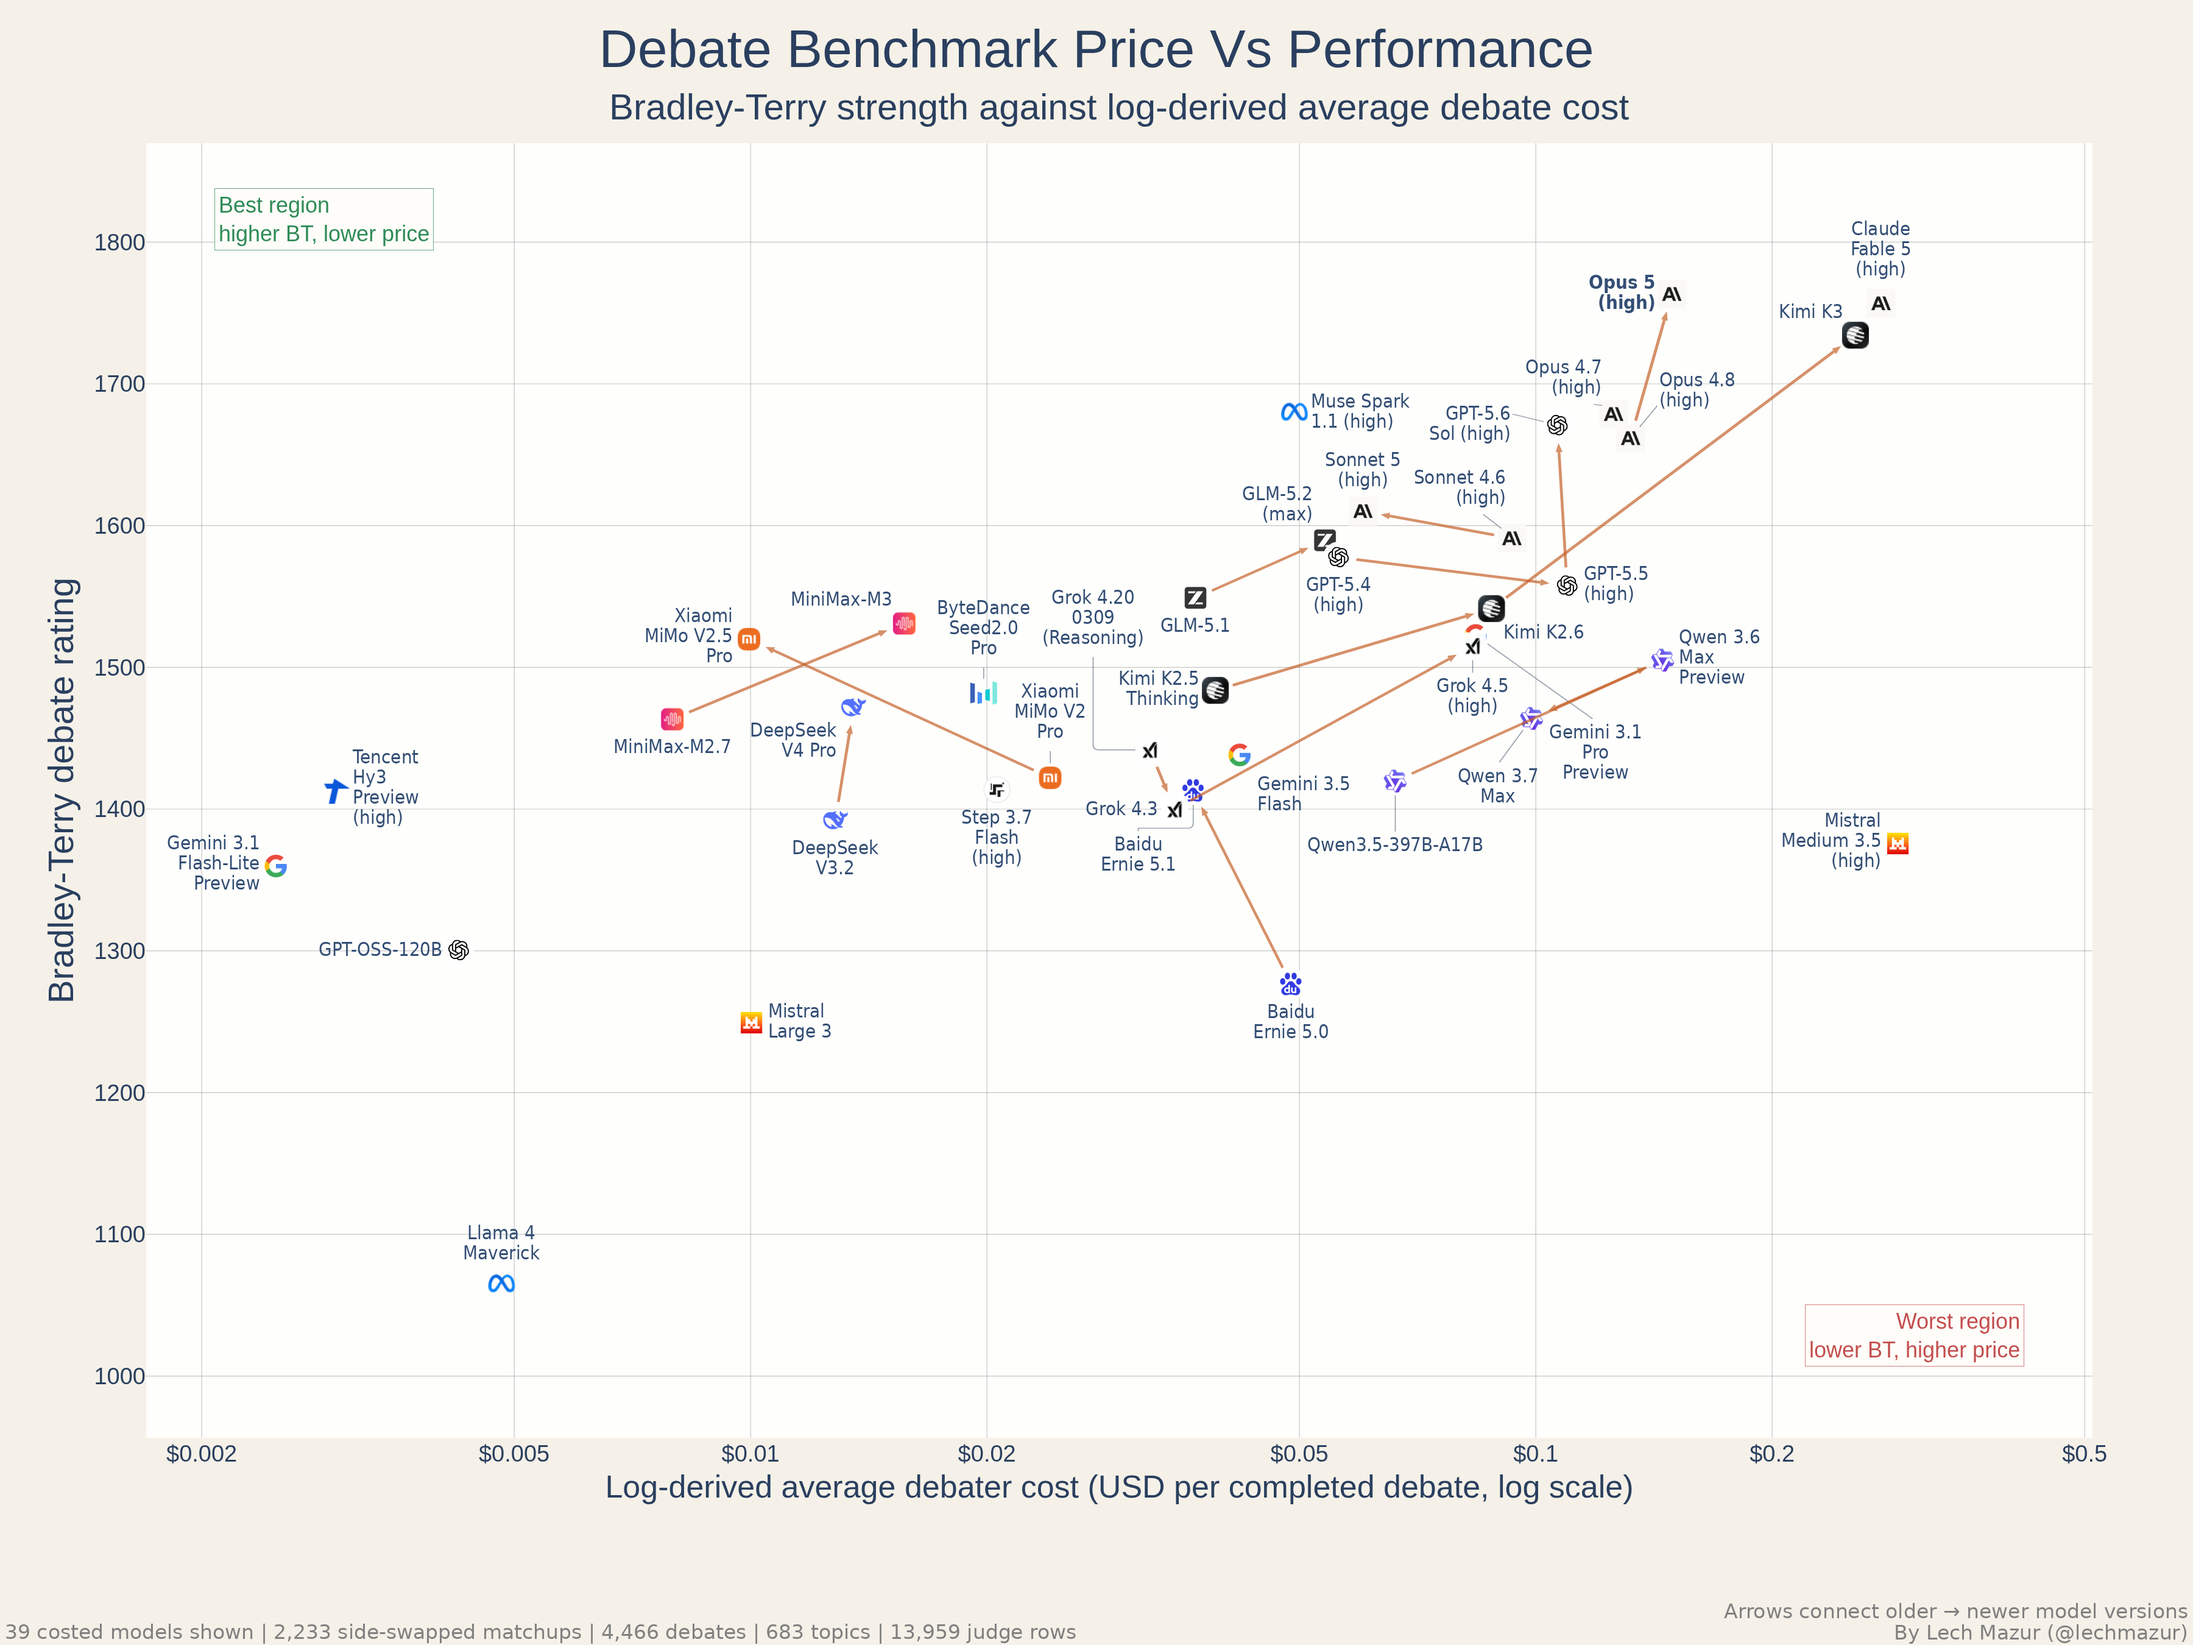
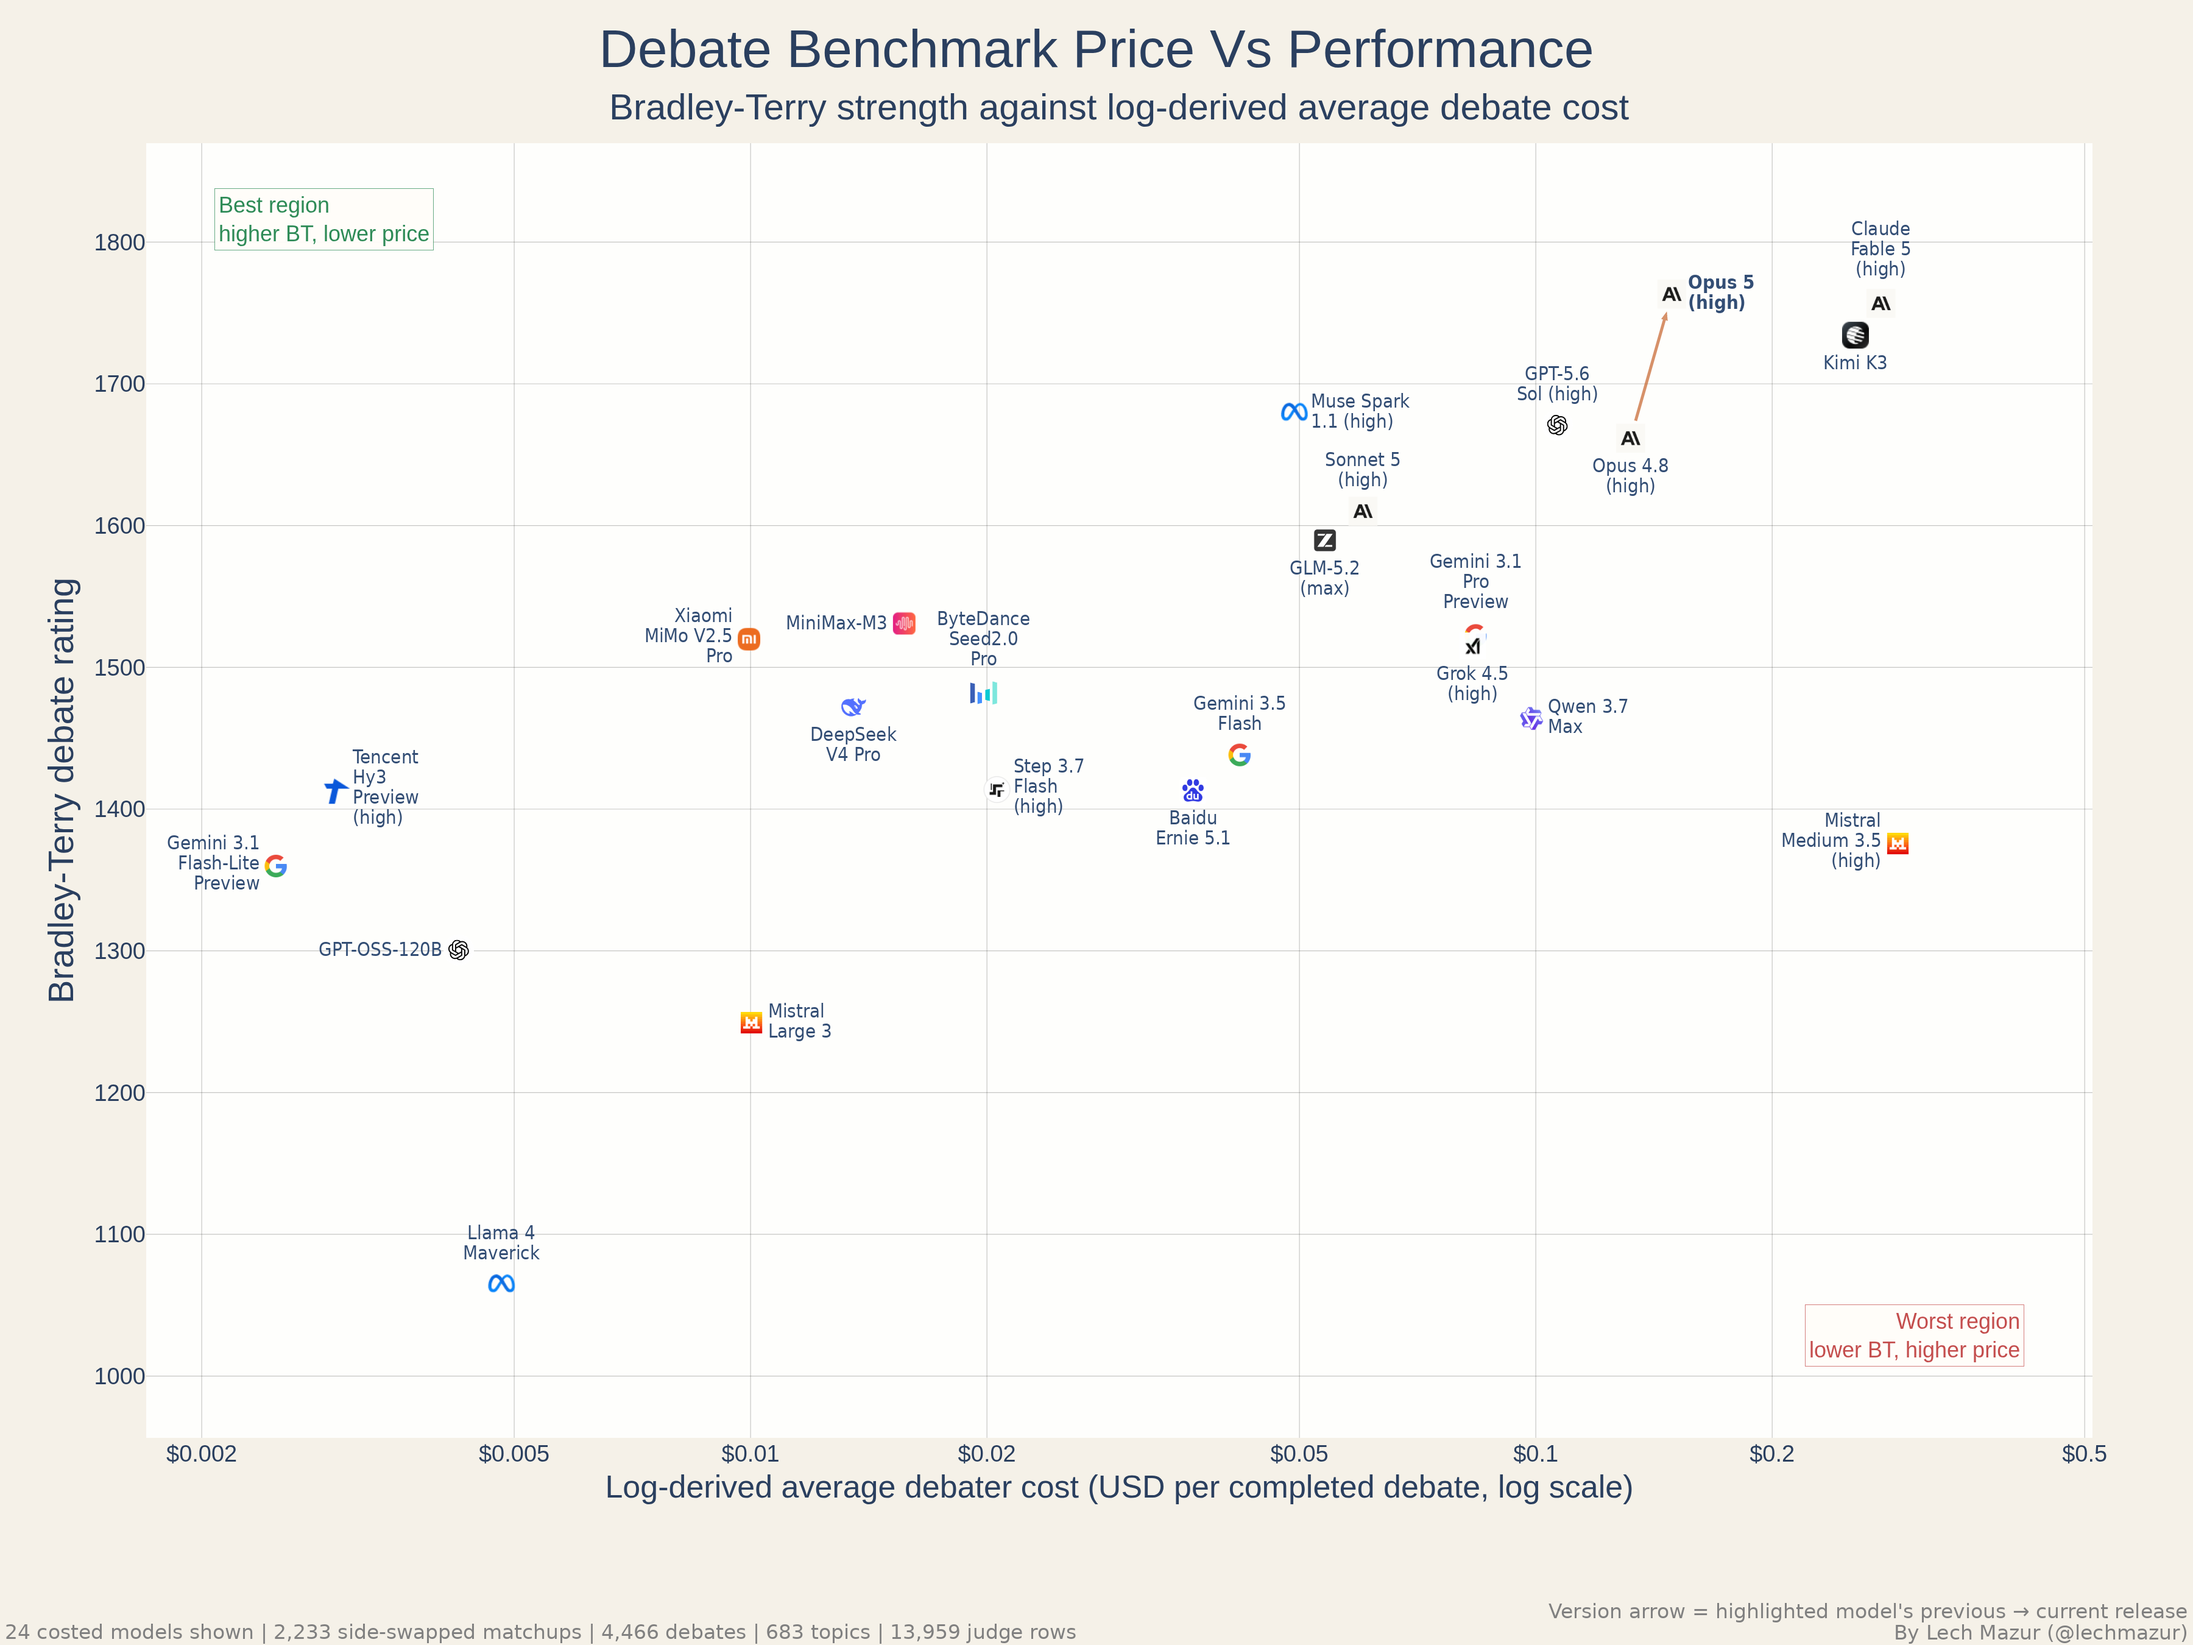
Focus public scatters on current models
Keep Claude Opus 4.8 as the sole historical scatter point for the highlighted Opus 5 comparison, and publish the single Opus version arrow plus matching README policy.

diff --git a/README.md b/README.md
@@ -22,7 +22,8 @@ Each evaluated matchup runs twice on the **same topic with sides swapped**. A th
 
 ## Current Snapshot
 
-- **42 rated models shown in the public charts**
+- **42 rated models retained in public leaderboards and matrix charts**
+- **24 models shown in current-focused scatter plots: 23 current models plus Claude Opus 4.8**
 - **4,770 debate artifacts tracked in the current status page**
 - **2,284 side-swapped matchups tracked before incomplete pairs are removed**
 - **2,233 side-swapped matchups used for the current ratings**
@@ -33,7 +34,7 @@ One side-swapped matchup means two debates on the same motion with PRO and CON r
 
 The transcript links below point to completed debates that are ready to read directly.
 
-Older models remain in the data for comparison, but the README and charts emphasize the current model set by default. The price-vs-performance chart makes one deliberate exception: it retains cost-backed predecessor chains that lead to current models so arrows can show how price and debate strength changed between versions.
+Older models remain in the data for comparison, but public scatter plots show the current model set by default. They make one narrow exception: the immediate predecessor of a highlighted model is retained for direct comparison. Claude Opus 5 is the sole highlight in this release, so Claude Opus 4.8 is the only historical model shown in the scatters and the Opus 4.8 → Opus 5 transition is the only version arrow.
 
 This refresh adds Claude Opus 5 (high) through 199 completed debate directions, forming 99 complete side-swapped matchups against 19 opponents. One attempted direction against ByteDance Seed2.0 Pro was refused, so it remains recorded as a terminal content block and was neither resumed nor imputed. The new judge pass produced all 597 planned decisions for the 199 completed debates. Kimi K3 also gains ten complete matchups against Opus 5, bringing its published coverage to 104 groups. An integrity audit continues to quarantine 14 older side-swapped groups whose stored transcripts contained literal upstream proxy-error text; their source artifacts remain preserved, but they do not feed ratings. The 150-debate judge bridge remains agreement-only and does not enter ratings.
 
@@ -172,7 +173,7 @@ The price chart reads the same Bradley-Terry strength signal against estimated d
 
 ![Price versus performance with Claude Opus 5 highlighted](images/debate_price_vs_performance__judge_judge_blend_20260724a__debate_placement_active_20260320f_highlighted.png)
 
-Higher and further left is better on this view. Arrows run from older to newer model versions. The chart omits vertical rating-uncertainty bands for readability and plots current rated models plus their cost-backed predecessor chains. This release refreshed costs across 44,864 stored debater turns: all 45 stored rated models have usable USD estimates, and 39 appear in the public cost chart after report-time suppression and lineage filtering. The 15 visible arrows include Claude Opus 4.8 → Opus 5, Kimi K2.5 → Kimi K2.6 → Kimi K3, Baidu Ernie 5.0 → 5.1, and Qwen 3.5 → 3.6 → 3.7. The very close Opus 4.7 → 4.8 pair remains unconnected because a logo-safe arrow cannot fit. Opus 5's exact log-derived average is about $0.149 per completed debate, compared with about $0.132 for Opus 4.8. Kimi K3 remains the most expensive of the top three at about $0.255 per completed debate.
+Higher and further left is better on this view. The chart omits vertical rating-uncertainty bands for readability and shows 23 current rated models plus Claude Opus 4.8, the immediate predecessor of the sole highlighted model. This release refreshed costs across 44,864 stored debater turns: all 45 stored rated models have usable USD estimates, while 24 appear in the current-focused public cost chart. The only version arrow is Claude Opus 4.8 → Opus 5; older Kimi, Qwen, Ernie, GPT, Grok, GLM, MiniMax, and other predecessor points remain in stored results but are intentionally omitted from public scatters. Opus 5's exact log-derived average is about $0.149 per completed debate, compared with about $0.132 for Opus 4.8. Kimi K3 remains the most expensive of the top three at about $0.255 per completed debate.
 
 ---
 
@@ -238,8 +239,8 @@ These are sanity-check views, not a second leaderboard. They are there to make e
 
 The benchmark also tracks a judge-side entertainment/readability diagnostic as a secondary signal. It does not affect ratings, but it is useful for checking whether the benchmark produces debates that are merely formal or actually engaging to read.
 
-- mean entertainment across completed matchups shown in the charts: 7.37 / 10
-- most entertaining current models by that signal include Claude Opus 5 (high), Kimi K3, Muse Spark 1.1 (high), Claude Fable 5 (high), Claude Opus 4.8 (high), Claude Opus 4.7 (high), Claude Sonnet 5 (high), GLM-5.2 (max), Kimi K2.6, and Claude Sonnet 4.6 (high)
+- matchup-coverage-weighted mean entertainment across models shown in the scatter: 7.38 / 10
+- most entertaining models shown by that signal include Claude Opus 5 (high), Kimi K3, Muse Spark 1.1 (high), Claude Fable 5 (high), Claude Opus 4.8 (high), Claude Sonnet 5 (high), GLM-5.2 (max), GPT-5.6 Sol (high), MiniMax-M3, and Xiaomi MiMo V2.5 Pro
 
 High-entertainment matchup examples from the current snapshot:
 
@@ -249,11 +250,11 @@ High-entertainment matchup examples from the current snapshot:
 - Kimi K3 vs Muse Spark 1.1 (high) on long-term block grants for fundamental science
 
 This signal is diagnostic rather than decisive, but it helps show that the benchmark is producing debates judges generally find readable and engaging.
-For the model table and example matchups behind this view, see the [current entertainment report](reports/debate_entertainment_report__judge_judge_blend_20260724a__debate_placement_active_20260320f.md). That report uses the same model set as the charts, so its charted-matchup average can differ slightly from the overall clean-debate average above.
+For the broader model table and example matchups behind this view, see the [current entertainment report](reports/debate_entertainment_report__judge_judge_blend_20260724a__debate_placement_active_20260320f.md). The report retains report-visible historical diagnostics, while the scatter applies the current-model-plus-highlight-predecessor display rule.
 
 ![Strength versus entertainment](images/debate_strength_vs_entertainment__judge_judge_blend_20260724a__debate_placement_active_20260320f.png)
 
-In the scatter, the x-axis is Bradley-Terry rating, the y-axis is mean entertainment/readability score, bubble size is rated matchup coverage, and grey horizontal bands show rating uncertainty density across each model's 95% interval.
+In the scatter, the x-axis is Bradley-Terry rating, the y-axis is mean entertainment/readability score, bubble size is rated matchup coverage, and grey horizontal bands show rating uncertainty density across each model's 95% interval. As in the price scatter, Claude Opus 4.8 is the only non-current model retained because it is the immediate predecessor of highlighted Claude Opus 5.
 
 Read against the main strength rating, this view separates three cases that a single leaderboard hides: models that are strong and lively, models that are strong but comparatively dry, and models that are readable or vivid without being top-tier debaters. Entertainment still stays diagnostic only; it does not feed the rating.
 
